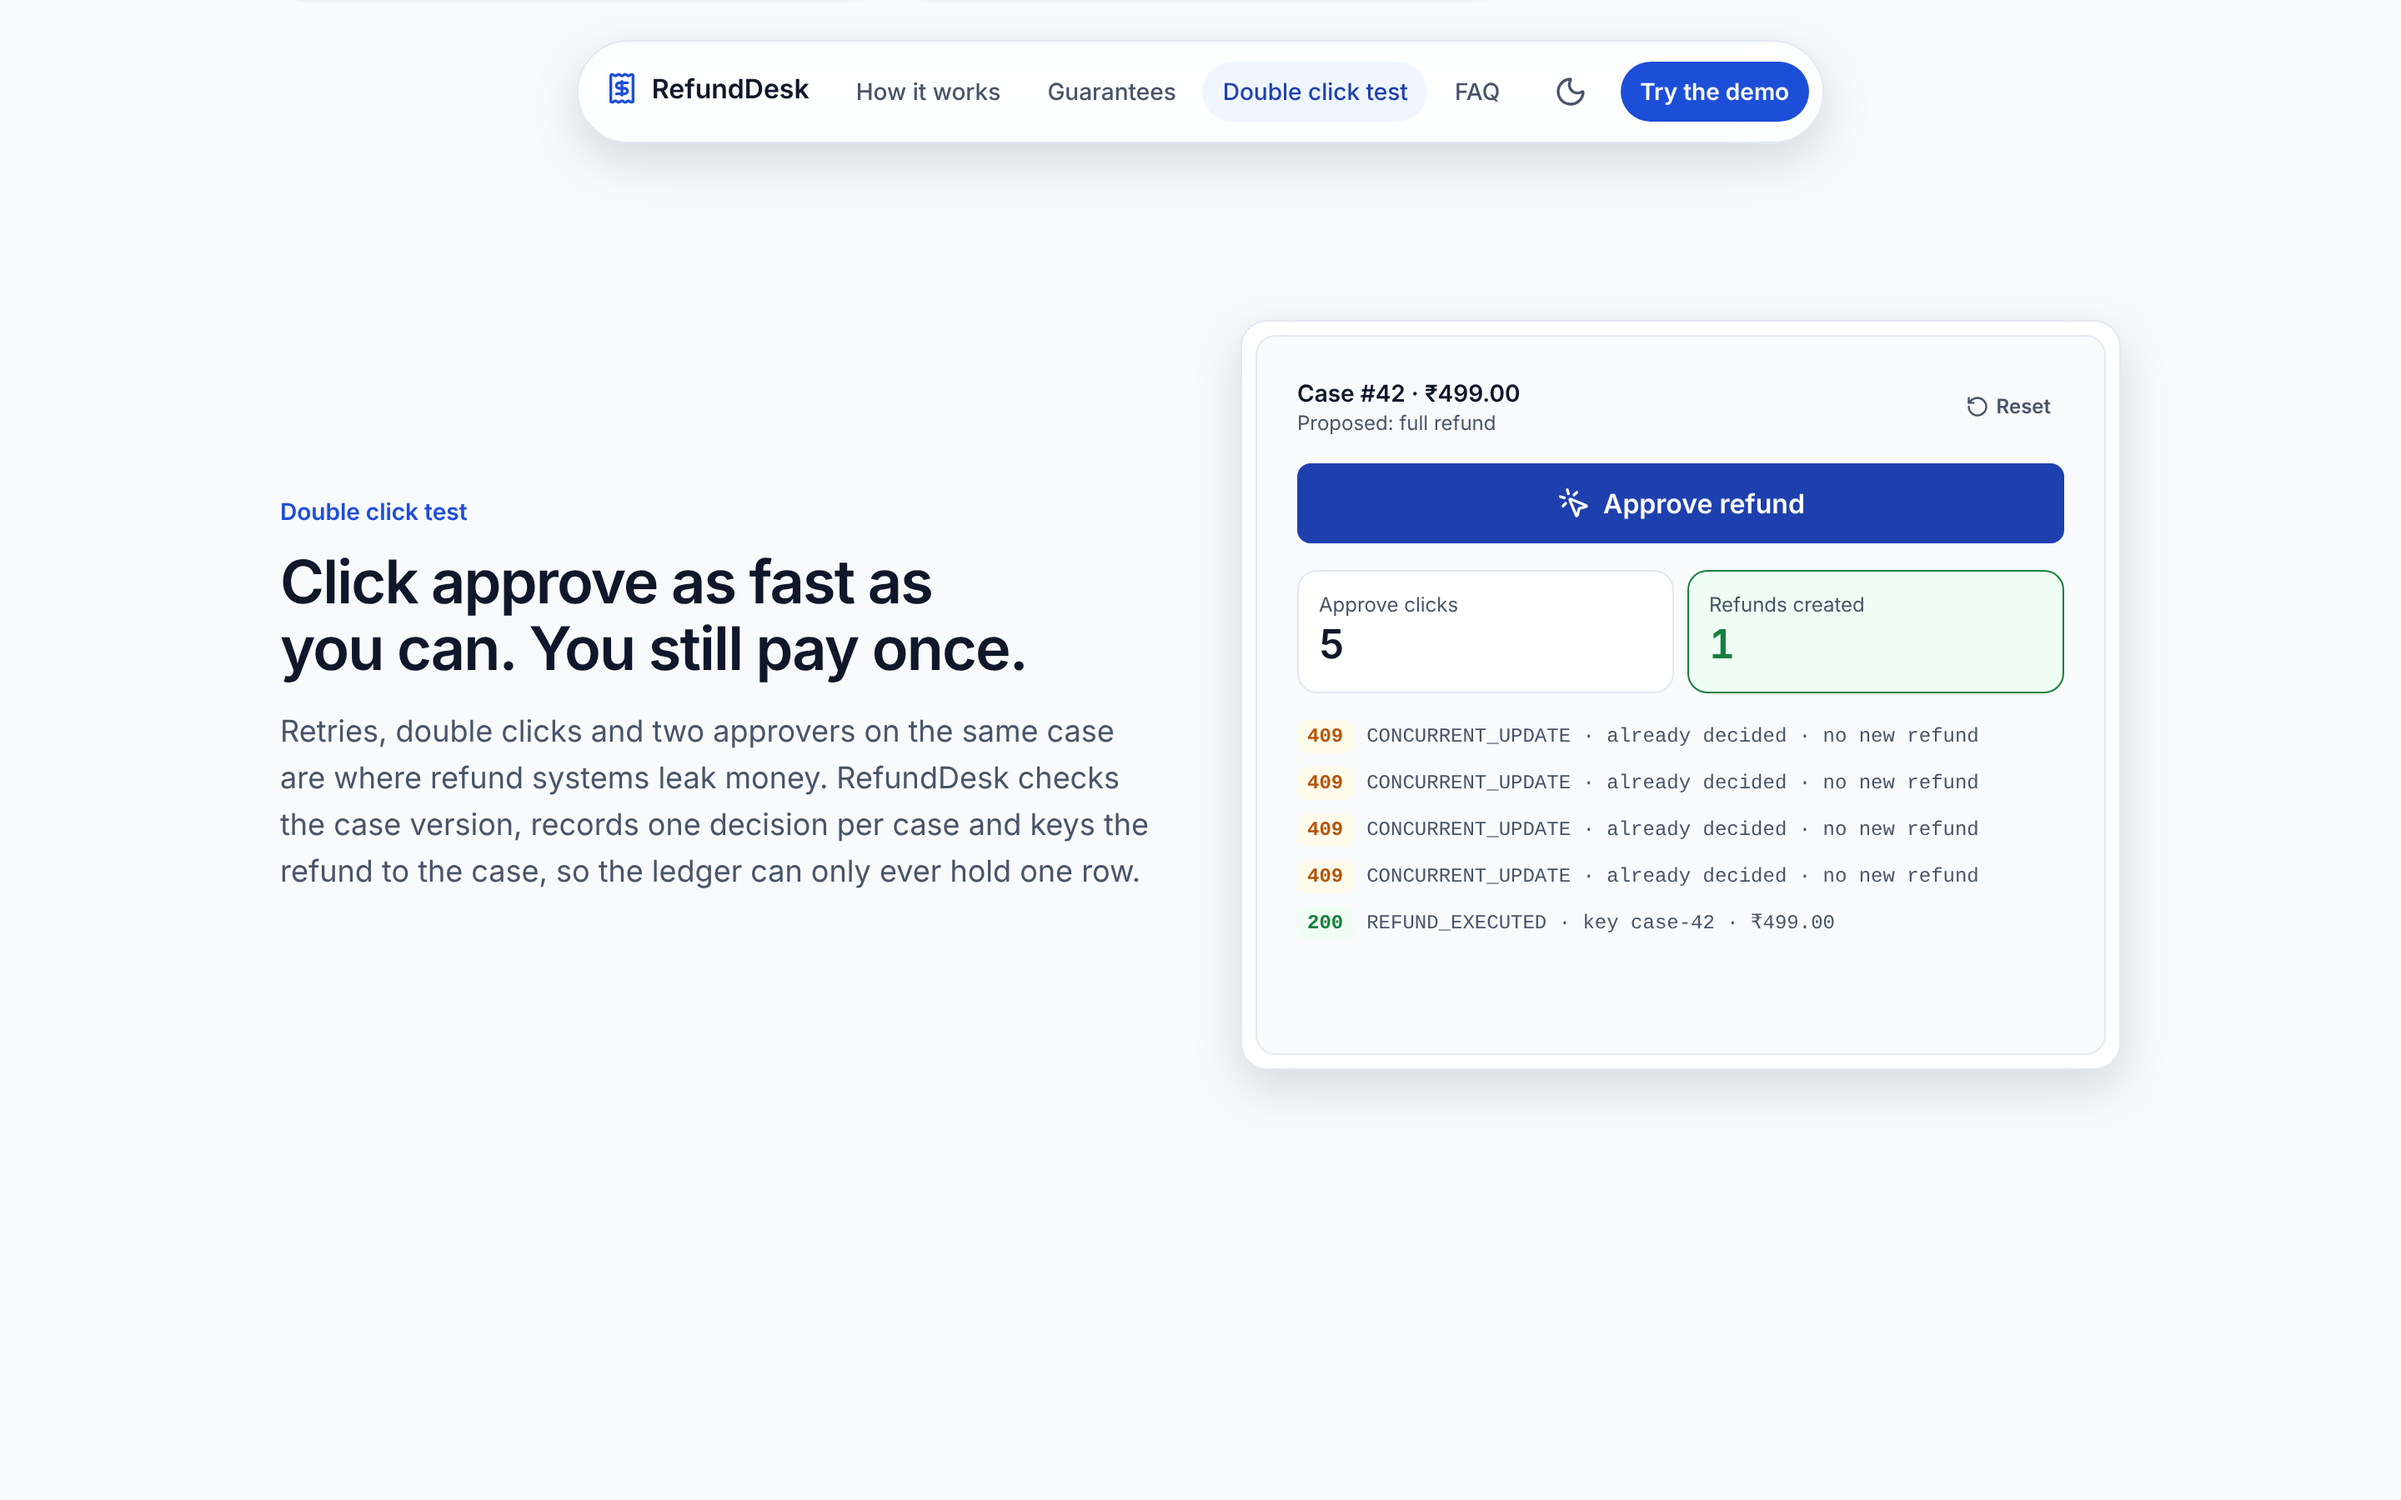
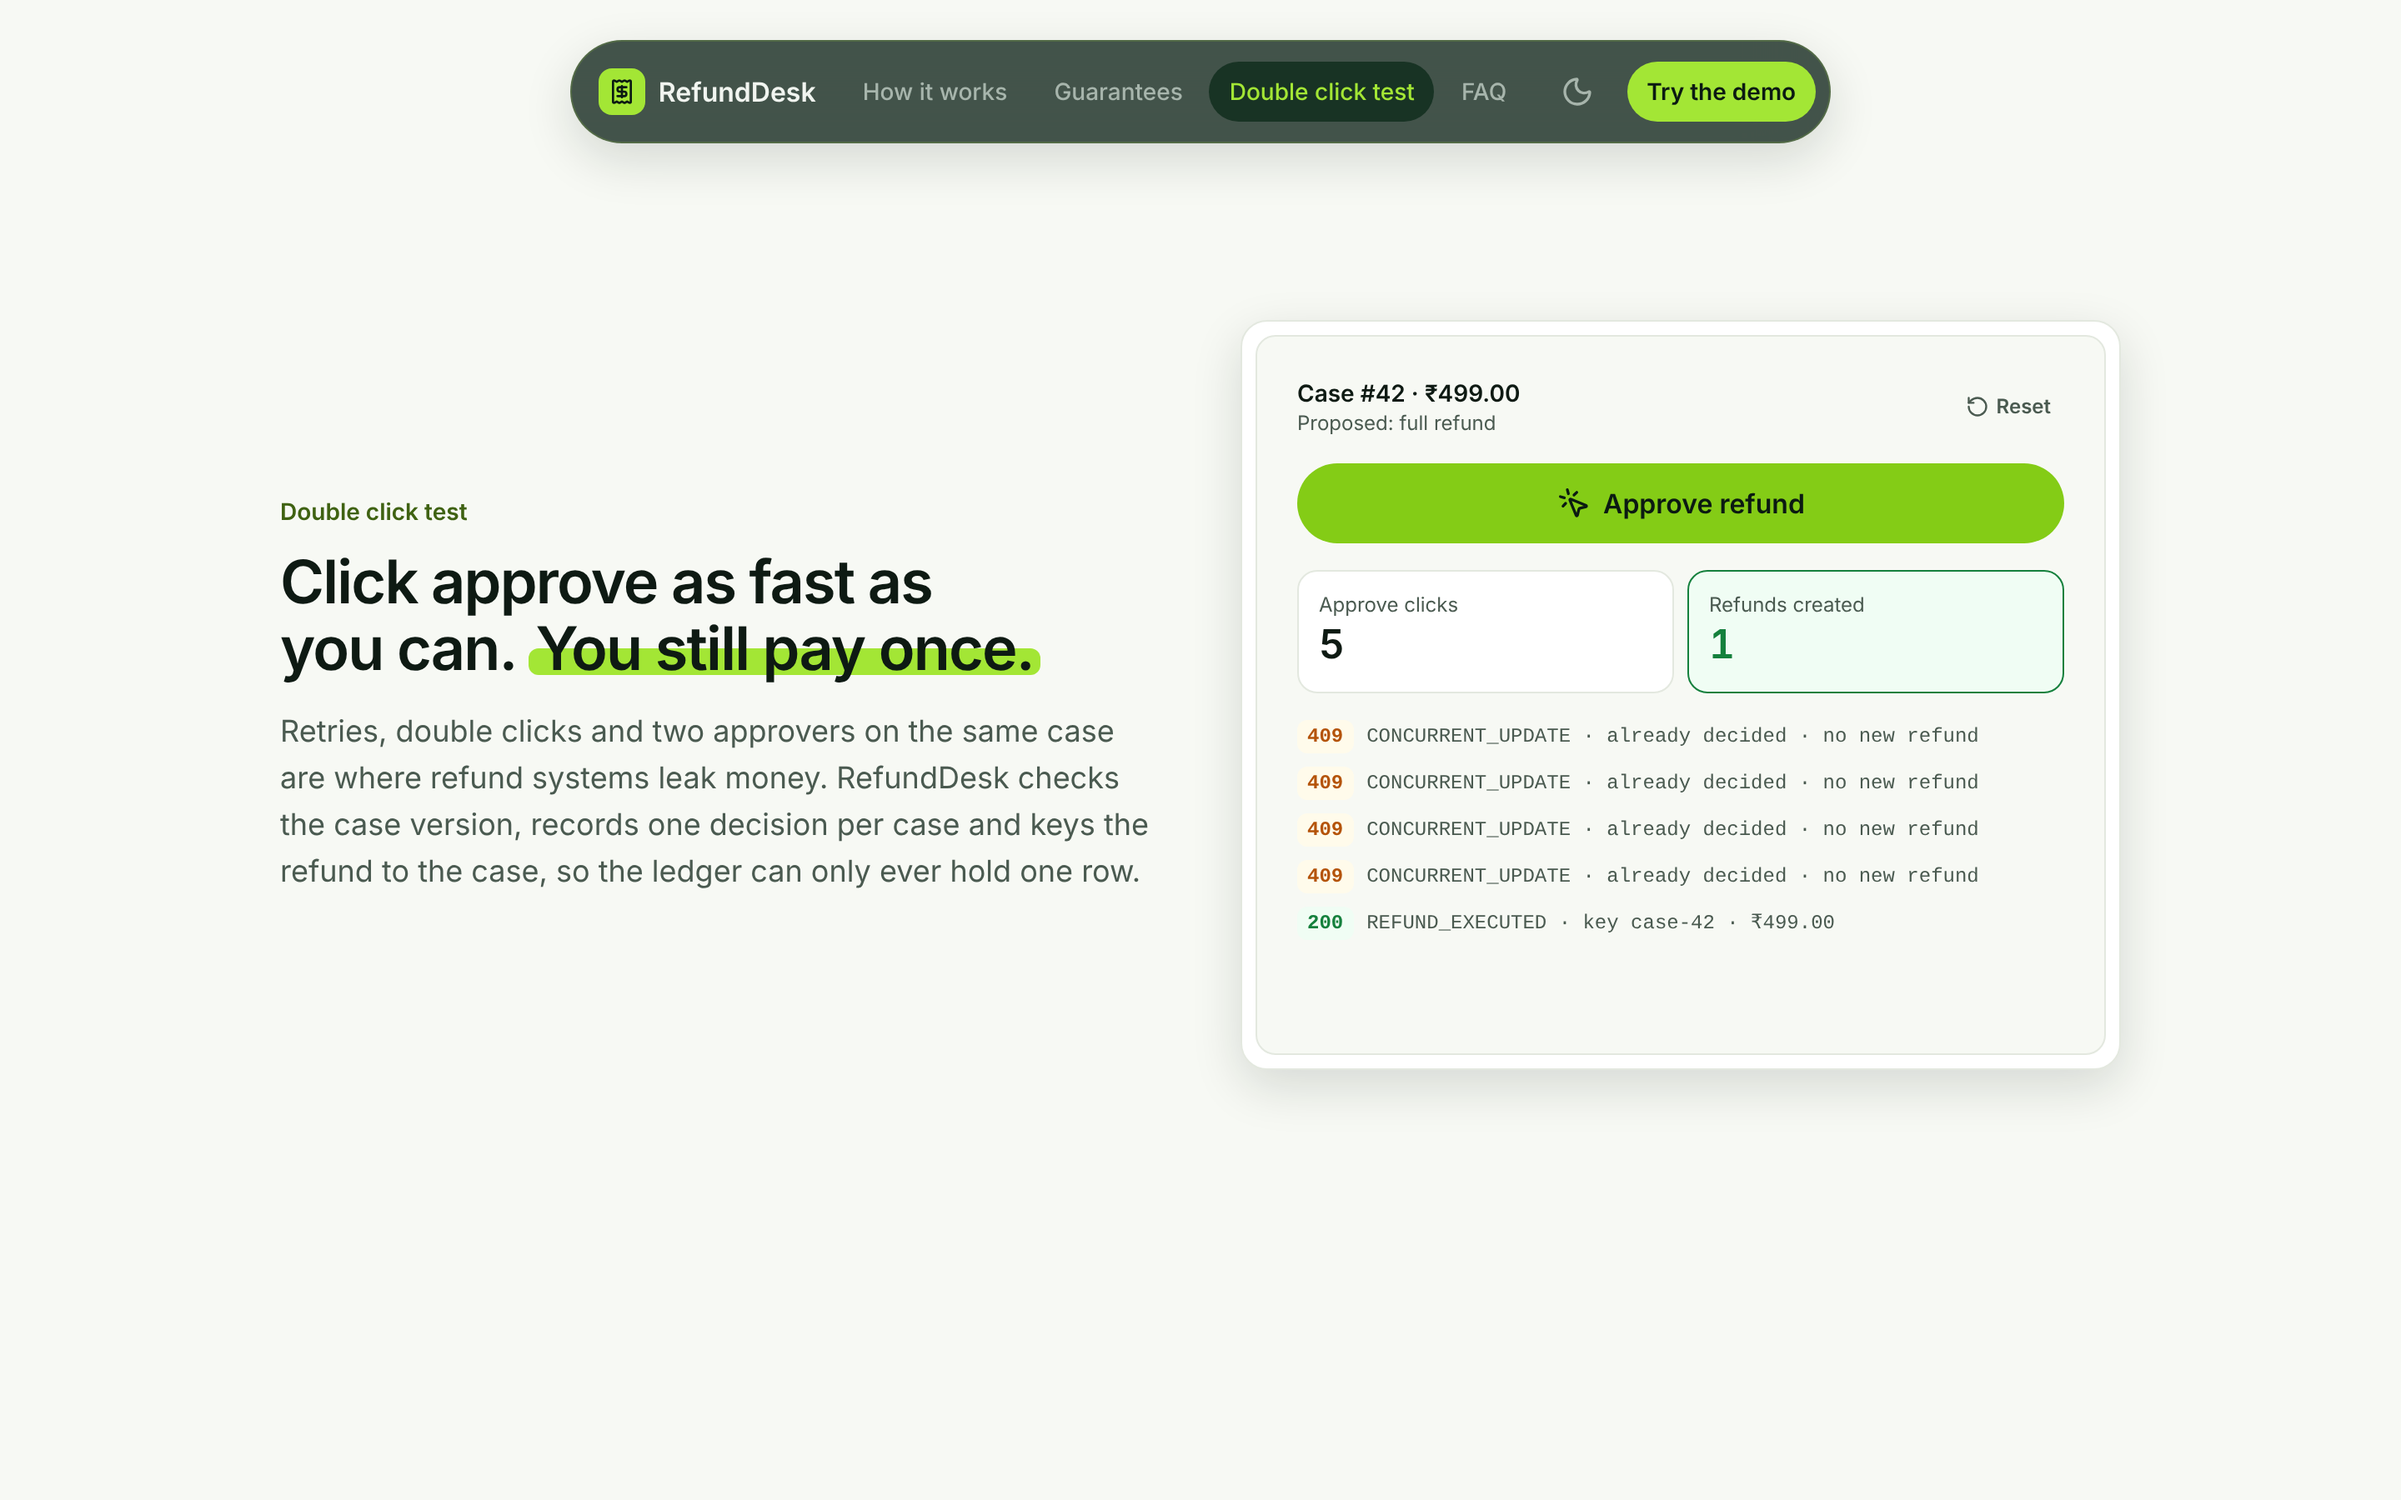
docs(readme): refresh landing page screenshots for the rebrand
Claude-Session: https://claude.ai/code/session_013r1nZz5izXw1vYaEvDhEWP

diff --git a/README.md b/README.md
@@ -60,7 +60,7 @@ The original design docs targeted Java/Spring + PostgreSQL. [`docs/STACK.md`](do
 
 ## Features
 
-**Landing page (`/`)**: floating glass nav with a morphing mobile menu · a live hero demo of one case going from report to refund (pausable, static under reduced motion) · sticky scroll walkthrough of the case lifecycle · word by word tagline reveal · bento grid of guarantees · an interactive double click test where the ledger never passes one refund · CI stats that count up · FAQ with schema.org markup · generated social image and favicon.
+**Landing page (`/`)**: forest green + lime brand · dark rounded hero with drifting hexagon art and a live demo of one case going from report to refund (pausable, static under reduced motion) · problem section with a pulsing radar and CI stats that count up · glowing agent hub where the case flow lights up node by node · role cards · guarantees bento with a highlighter sweep on headings · process line that draws itself on scroll · word by word tagline reveal · interactive double click test where the ledger never passes one refund · FAQ with schema.org markup · circuit line CTA · giant wordmark footer.
 
 **Customer portal (`/transactions`)**: transactions grouped by day · report an issue · case status timeline (Received → In review → Decision → Refunded) · outcome card · polls while the AI works · live-region announcements.
 
